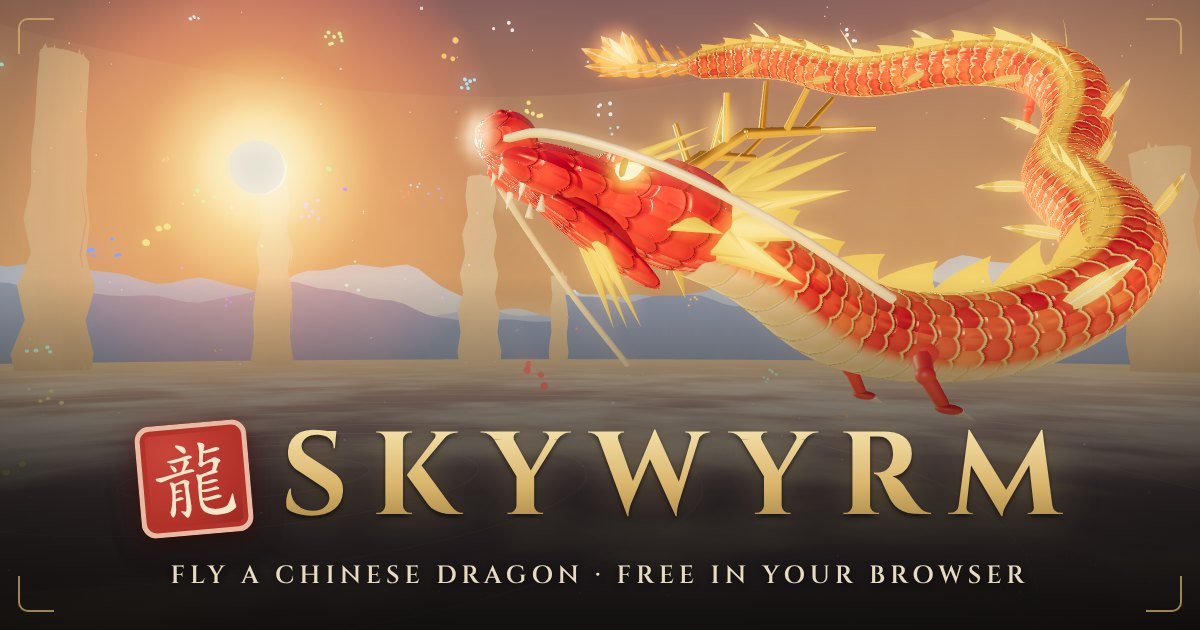
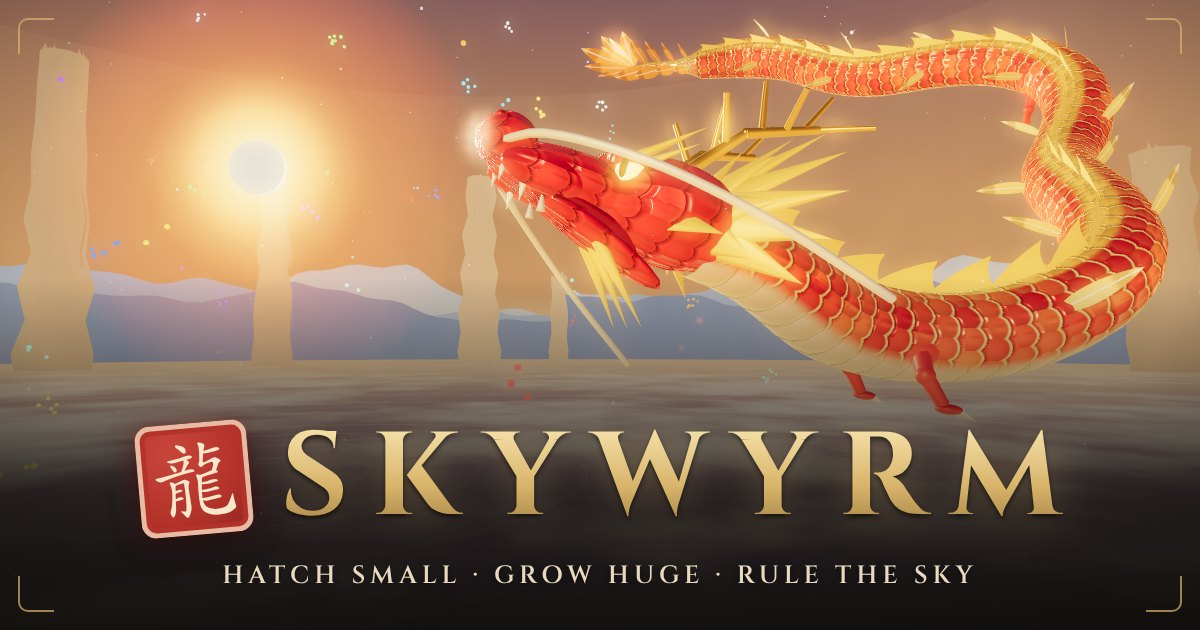
Skywyrm site: "Hatch small. Grow huge. Rule the sky." for the title and previews (#37)
Claude-Session: https://claude.ai/code/session_013Wtt5fCvn2aufLsYv3zhXT

diff --git a/site/index.html b/site/index.html
@@ -8,8 +8,8 @@
          hash: scripts/check-assets.mjs checks it, so if you edit the importmap run `npm run assets:fix`. -->
     <meta http-equiv="Content-Security-Policy" content="default-src 'self'; script-src 'self' 'sha256-PshKy/GFzf0N39/jpTnj9u0U28oI0s7vxX65HsQ+deM='; style-src 'self' 'unsafe-inline'; font-src 'self'; img-src 'self' data: blob:; media-src 'self' blob:; connect-src 'self' https://wyrm-server-420365023329.us-west1.run.app wss://wyrm-server-420365023329.us-west1.run.app http://localhost:* ws://localhost:* http://127.0.0.1:* ws://127.0.0.1:*; worker-src 'self' blob:; object-src 'none'; base-uri 'none'; form-action 'none'">
     <meta name="viewport" content="width=device-width, initial-scale=1.0, viewport-fit=cover">
-    <title>Skywyrm — fly a Chinese dragon</title>
-    <meta name="description" content="Fly a Chinese dragon through the clouds. Eat, grow longer, and don't touch anyone's tail. Free in your browser on phones and computers. No sign-up, no ads.">
+    <title>Skywyrm — Hatch small. Grow huge. Rule the sky.</title>
+    <meta name="description" content="A 3D dragon game: eat glowing orbs, grow huge, and make other dragons crash into your tail. Free in your browser on phones and computers. No sign-up, no ads.">
     <link rel="canonical" href="https://skywyrm.io/">
     <meta name="theme-color" content="#0d0b09">
     <link rel="icon" type="image/png" sizes="64x64" href="favicon.png">
@@ -19,8 +19,8 @@
          makes og.jpg and the icons from the game itself. -->
     <meta property="og:type" content="website">
     <meta property="og:site_name" content="Skywyrm">
-    <meta property="og:title" content="Skywyrm — fly a Chinese dragon">
-    <meta property="og:description" content="Fly a Chinese dragon through the clouds. Eat, grow longer, and don't touch anyone's tail. Free in your browser on phones and computers. No sign-up, no ads.">
+    <meta property="og:title" content="Skywyrm — Hatch small. Grow huge. Rule the sky.">
+    <meta property="og:description" content="A 3D dragon game: eat glowing orbs, grow huge, and make other dragons crash into your tail. Free in your browser on phones and computers. No sign-up, no ads.">
     <meta property="og:url" content="https://skywyrm.io/">
     <meta property="og:image" content="https://skywyrm.io/og.jpg">
     <meta property="og:image:type" content="image/jpeg">
@@ -28,8 +28,8 @@
     <meta property="og:image:height" content="630">
     <meta property="og:image:alt" content="A red and gold Chinese dragon coils through a golden sky toward the sun, above the word Skywyrm">
     <meta name="twitter:card" content="summary_large_image">
-    <meta name="twitter:title" content="Skywyrm — fly a Chinese dragon">
-    <meta name="twitter:description" content="Fly a Chinese dragon through the clouds. Eat, grow longer, and don't touch anyone's tail. Free in your browser on phones and computers. No sign-up, no ads.">
+    <meta name="twitter:title" content="Skywyrm — Hatch small. Grow huge. Rule the sky.">
+    <meta name="twitter:description" content="A 3D dragon game: eat glowing orbs, grow huge, and make other dragons crash into your tail. Free in your browser on phones and computers. No sign-up, no ads.">
     <meta name="twitter:image" content="https://skywyrm.io/og.jpg">
     <meta name="twitter:image:alt" content="A red and gold Chinese dragon coils through a golden sky toward the sun, above the word Skywyrm">
     <link rel="stylesheet" href="style.css?v=28">

diff --git a/notes/PRD-v3.md b/notes/PRD-v3.md
@@ -34,7 +34,7 @@ on phones and computers with no install, no account and no tracking.
 | Death | Instant respawn | **3 lives** per game, 3 s between lives, then a game-over card |
 | Rules | Mass, boost, three power-ups | Adds **body heat**, a **thrust tank**, a **length speed bonus**, **tail nibbling**, ranks and perks, bot moods |
 | Worlds | Small 70 m arenas with a castle and obstacles | Large open worlds: Skyhold (350 m) and The Orb (325 m), with no obstacles |
-| Sharing | Highlights, replay links, share cards | Link previews only: a shared skywyrm.io link shows a dragon picture, the title and a blurb (Open Graph and Twitter cards). Highlights, replays and share cards aren't built; big moments show as toasts and voice lines |
+| Sharing | Highlights, replay links, share cards | Link previews only: a shared skywyrm.io link shows a dragon picture, the title and a blurb (Open Graph and Twitter cards). The headline is "Hatch small. Grow huge. Rule the sky.", picked from ten lines scored by a kid, a parent and a web-game player. Highlights, replays and share cards aren't built; big moments show as toasts and voice lines |
 | Stack | TypeScript/Vite/Vue, a VM, Firebase, binary netcode | Plain ES modules with no build step. Cloud Run, JSON over WebSocket |
 | Home | dendroslabs.com/wyrm | skywyrm.io, in its own repo. The old dendroslabs.com/wyrm page has been removed |
 
